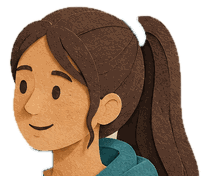
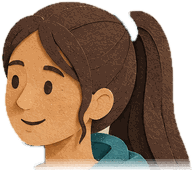
v2-pro preview: clean puppets, new buttons
Claude-Session: https://claude.ai/code/session_01YFmgE8t31npEdtV1E44xiG

diff --git a/v2-pro/index.html b/v2-pro/index.html
@@ -133,22 +133,22 @@ p { margin: 0; }
 .stepimg .pc { position: absolute; display: block; pointer-events: none; }
 .stepimg .pc .bimg { display: block; width: 100%; height: auto; }
 .stepimg .pc .arm, .stepimg .pc .head { position: absolute; display: block; height: auto; }
-.journey.live li.played .stepimg .pc.b1 { animation: body-1 4.8s steps(1, end) 1.2s infinite; }
-.journey.live li.played .stepimg .pc.b2 { animation: body-2 4.8s steps(1, end) 1.2s infinite; }
-.journey.live li.played .stepimg .pc.b3 { animation: body-3 4.8s steps(1, end) 1.2s infinite; }
-.journey.live li.played .stepimg .arm { animation: arm-1 4.8s steps(1, end) 1.2s infinite; }
+.journey.live li.played .stepimg .pc.b1 { animation: body-1 6s ease-in-out 1.2s infinite; }
+.journey.live li.played .stepimg .pc.b2 { animation: body-2 6s ease-in-out 1.2s infinite; }
+.journey.live li.played .stepimg .pc.b3 { animation: body-3 6s ease-in-out 1.2s infinite; }
+.journey.live li.played .stepimg .arm { animation: arm-1 6s ease-in-out 1.2s infinite; }
 .stepimg:not(.inview) .pc, .stepimg:not(.inview) .arm { animation-play-state: paused !important; }
-@keyframes body-1 { 0% { transform: none; } 5% { transform: rotate(-1.4deg); } 10% { transform: rotate(.5deg); } 15% { transform: rotate(-1.1deg) translateY(-.6%); } 20% { transform: rotate(.4deg); } 25% { transform: rotate(-1.6deg); } 30% { transform: rotate(.6deg) translateY(-.4%); } 35% { transform: rotate(-.9deg); } 45% { transform: none; } 70% { transform: rotate(.9deg); } 80% { transform: none; } 100% { transform: none; } }
-@keyframes arm-1 { 0% { transform: none; } 5% { transform: rotate(-9deg); } 10% { transform: rotate(3deg); } 15% { transform: rotate(-6deg); } 20% { transform: rotate(4deg); } 25% { transform: rotate(-11deg); } 30% { transform: rotate(1deg); } 35% { transform: rotate(-5deg); } 45% { transform: none; } 100% { transform: none; } }
-@keyframes body-2 { 0% { transform: none; } 20% { transform: rotate(.8deg) translateY(.5%); } 25% { transform: none; } 50% { transform: rotate(-1.2deg); } 55% { transform: rotate(1deg) translateY(-.6%); } 60% { transform: rotate(-1.4deg); } 65% { transform: rotate(.8deg); } 70% { transform: rotate(-1deg) translateY(-.4%); } 75% { transform: none; } 100% { transform: none; } }
-@keyframes body-3 { 0% { transform: none; } 35% { transform: rotate(-1deg); } 40% { transform: none; } 80% { transform: rotate(-2deg); } 85% { transform: rotate(-2.2deg) translateY(.6%); } 90% { transform: rotate(-1.4deg); } 95% { transform: rotate(-.5deg); } 100% { transform: none; } }
-.journey.live li.played .stepimg .h1 { animation: talk-1 4.8s steps(1, end) 1.2s infinite; }
-.journey.live li.played .stepimg .h2 { animation: talk-2 4.8s steps(1, end) 1.2s infinite; }
-.journey.live li.played .stepimg .h3 { animation: talk-3 4.8s steps(1, end) 1.2s infinite; }
+.journey.live li.played .stepimg .h1 { animation: talk-1 6s ease-in-out 1.2s infinite; }
+.journey.live li.played .stepimg .h2 { animation: talk-2 6s ease-in-out 1.2s infinite; }
+.journey.live li.played .stepimg .h3 { animation: talk-3 6s ease-in-out 1.2s infinite; }
+@keyframes body-1 { 0%, 100% { transform: none; } 12% { transform: rotate(-1deg); } 24% { transform: rotate(.3deg); } 36% { transform: rotate(-.8deg); } 48% { transform: none; } 75% { transform: rotate(.6deg); } }
+@keyframes arm-1 { 0%, 100% { transform: none; } 10% { transform: rotate(-8deg); } 20% { transform: rotate(2deg); } 30% { transform: rotate(-6deg); } 40% { transform: rotate(1deg); } 48% { transform: none; } }
+@keyframes body-2 { 0%, 100% { transform: none; } 20% { transform: rotate(.5deg); } 30% { transform: none; } 55% { transform: rotate(-.9deg); } 65% { transform: rotate(.6deg); } 75% { transform: rotate(-.5deg); } 85% { transform: none; } }
+@keyframes body-3 { 0%, 100% { transform: none; } 35% { transform: rotate(-.6deg); } 45% { transform: none; } 82% { transform: rotate(-1.4deg); } 92% { transform: rotate(-.6deg); } }
+@keyframes talk-1 { 0%, 100% { transform: none; } 8% { transform: rotate(-2.5deg); } 16% { transform: rotate(1deg); } 24% { transform: rotate(-2deg); } 32% { transform: rotate(.5deg); } 40% { transform: rotate(-1.5deg); } 48% { transform: none; } 70% { transform: rotate(2deg); } 80% { transform: none; } }
+@keyframes talk-2 { 0%, 100% { transform: none; } 18% { transform: rotate(2deg) translateY(1%); } 28% { transform: none; } 52% { transform: rotate(-2deg); } 60% { transform: rotate(1.5deg); } 68% { transform: rotate(-1.5deg); } 76% { transform: rotate(1deg); } 86% { transform: none; } }
+@keyframes talk-3 { 0%, 100% { transform: none; } 30% { transform: rotate(-1.5deg); } 42% { transform: none; } 80% { transform: rotate(-3deg); } 86% { transform: rotate(-2.5deg) translateY(1%); } 94% { transform: rotate(-.8deg); } }
 .stepimg:not(.inview) .head { animation-play-state: paused !important; }
-@keyframes talk-1 { 0% { transform: none; } 5% { transform: rotate(-3deg) translateY(-1%); } 10% { transform: rotate(1.5deg); } 15% { transform: rotate(-2deg) translateY(-1%); } 20% { transform: rotate(.5deg); } 25% { transform: rotate(-2.5deg); } 30% { transform: rotate(1deg) translateY(-.5%); } 35% { transform: rotate(-1.5deg); } 40% { transform: rotate(.5deg); } 45% { transform: none; } 70% { transform: rotate(1.5deg); } 80% { transform: none; } 100% { transform: none; } }
-@keyframes talk-2 { 0% { transform: none; } 20% { transform: rotate(1.5deg) translateY(1.5%); } 25% { transform: none; } 50% { transform: rotate(2.5deg); } 55% { transform: rotate(-1.5deg) translateY(-1%); } 60% { transform: rotate(2deg); } 65% { transform: rotate(-1deg); } 70% { transform: rotate(1.5deg) translateY(-1%); } 75% { transform: none; } 100% { transform: none; } }
-@keyframes talk-3 { 0% { transform: none; } 35% { transform: rotate(-2deg); } 40% { transform: none; } 80% { transform: rotate(-4deg); } 85% { transform: rotate(-4deg) translateY(1.5%); } 90% { transform: rotate(-3deg); } 95% { transform: rotate(-1deg); } 100% { transform: none; } }
 @media (min-width: 700px) { .stepimg { grid-column: 3; max-width: 420px; } }
 .journey.live li:not(.played) .stepimg .scene { opacity: .35; transform: scale(.94) rotate(-1.5deg); }
 .journey.live li.played .stepimg .scene { animation: sm-pop .6s steps(1, end) both, sm-boil .5s steps(1, end) .6s 5; }
@@ -226,15 +226,32 @@ body::before { content: ""; position: fixed; inset: 0 0 auto; height: env(safe-a
 @media (min-width: 900px) { .nav { display: flex; } .lang { margin-left: 0; } .top .cta-s { display: inline-flex; } }
 
 /* buttons */
-.btn { display: inline-flex; align-items: center; justify-content: center; gap: 10px; padding: 14px 22px; background: var(--ink); color: #fff; text-decoration: none; font: 500 var(--fs-sm)/1 var(--sans); letter-spacing: .02em; border: 0; border-radius: 2px; cursor: pointer; transition: background .2s; }
-.btn:hover { background: var(--accent); }
-.btn .arr { transition: transform .25s ease; }
-.btn:hover .arr { transform: translateX(3px); }
+/* buttons: one solid primary, one outlined secondary; same height, soft corners, an arrow chip that nudges on hover */
+.btn { display: inline-flex; align-items: center; justify-content: space-between; gap: 16px; min-height: 52px; padding: 6px 6px 6px 22px;
+  background: var(--ink); color: #fff; text-decoration: none; font: 600 .98rem/1.2 var(--sans); letter-spacing: -.005em;
+  border: 0; border-radius: 10px; cursor: pointer; -webkit-tap-highlight-color: transparent;
+  box-shadow: 0 1px 2px rgba(12,47,58,.18), 0 10px 24px -14px rgba(12,47,58,.65);
+  transition: background .25s ease, box-shadow .25s ease, transform .2s ease; }
+.btn:hover { background: #12414e; box-shadow: 0 2px 4px rgba(12,47,58,.2), 0 14px 28px -14px rgba(12,47,58,.7); }
+.btn:active { transform: translateY(1px); box-shadow: 0 1px 2px rgba(12,47,58,.2); }
+.btn .ico { display: grid; place-items: center; flex: none; width: 40px; height: 40px; border-radius: 8px; background: var(--accent); transition: transform .25s ease, background .25s ease; }
+.btn:hover .ico { transform: translateX(2px); background: #13909e; }
+.btn .arr { width: 15px; height: 11px; }
+.btn.plain { padding: 6px 22px; justify-content: center; }
+.btn.small { min-height: 40px; padding: 4px 16px; font-size: var(--fs-xs); border-radius: 8px; box-shadow: none; }
 .route > button, .faq summary, .seg span, .lang button { cursor: pointer; }
-.btn .arr { width: 14px; height: 10px; }
-.btn.small { padding: 10px 16px; font-size: var(--fs-xs); }
+.btn-line { display: inline-flex; align-items: center; justify-content: center; gap: 10px; min-height: 52px; padding: 6px 22px; border-radius: 10px;
+  border: 1px solid rgba(12,47,58,.28); color: var(--ink); background: transparent; text-decoration: none; font: 600 .98rem/1.2 var(--sans); cursor: pointer;
+  transition: border-color .25s ease, background .25s ease; }
+.btn-line:hover { border-color: var(--ink); background: rgba(12,47,58,.04); }
+.btn-line .chev { width: 10px; height: 10px; transition: transform .25s ease; }
+.btn-line:hover .chev { transform: translateY(2px); }
 .tlink { font-size: var(--fs-sm); color: var(--ink); text-decoration: underline; text-decoration-color: var(--rule); text-underline-offset: 5px; text-decoration-thickness: 1px; }
 .tlink:hover { text-decoration-color: var(--accent); }
+@media (max-width: 560px) {
+  .hero .actions { display: grid; grid-template-columns: 1fr; gap: 10px; }
+  .hero .actions .btn, .hero .actions .btn-line, #form .btn { width: 100%; }
+}
 
 /* hero */
 .hero { padding-block: clamp(48px, 8vw, 96px) 0; }
@@ -335,7 +352,9 @@ section.tint .scope div { background: var(--tint); }
 .contact .wx small { font-size: var(--fs-xs); color: var(--muted); }
 .contact .wx .row { display: flex; align-items: center; gap: 14px; flex-wrap: wrap; }
 .contact .wx .id { font-family: var(--serif); font-weight: 500; font-size: 1.8rem; color: var(--ink); user-select: all; -webkit-user-select: all; }
-.ghost { all: unset; cursor: pointer; font-size: var(--fs-xs); padding: 6px 12px; border: 1px solid var(--rule); border-radius: 2px; color: var(--ink); background: var(--paper); }
+.ghost { all: unset; box-sizing: border-box; cursor: pointer; display: inline-flex; align-items: center; gap: 6px; min-height: 34px; font: 600 var(--fs-xs)/1 var(--sans); padding: 0 12px; border: 1px solid rgba(12,47,58,.22); border-radius: 8px; color: var(--ink); background: var(--paper); transition: border-color .2s ease, background .2s ease; }
+.ghost:hover { border-color: var(--ink); }
+.ghost svg { width: 14px; height: 14px; }
 .ghost:focus-visible { outline: 2px solid var(--accent); outline-offset: 2px; }
 form.card, .done { background: var(--paper); border: 1px solid var(--rule); padding: clamp(20px, 4vw, 36px); display: grid; gap: 18px; }
 .field { display: grid; gap: 6px; min-width: 0; }
@@ -413,8 +432,8 @@ footer .base { margin-top: 40px; padding-top: 18px; border-top: 1px solid rgba(2
           <h1><span class="en">Thinking about studying in the UK? Let’s talk it through<i class="sundot" aria-hidden="true"></i><span class="sr">.</span></span><span class="zh">想去英国读书？<br>我们先聊一聊<i class="sundot" aria-hidden="true"></i><span class="sr">。</span></span></h1>
           <p class="lede"><span class="en">We help parents, students and working adults find UK schools and courses that suit them, and introduce them to the right people. The first conversation is free.</span><span class="zh">我们帮助家长、学生和在职人士找到适合的英国学校与课程，并为你对接合适的学校。第一次咨询免费。</span></p>
           <div class="actions">
-            <a class="btn" href="#consult"><span class="en">Book a free consultation</span><span class="zh">预约免费咨询</span><svg class="arr" viewBox="0 0 14 10" aria-hidden="true"><path d="M0 5h12M8 1l4 4-4 4" fill="none" stroke="currentColor" stroke-width="1.4"/></svg></a>
-            <a class="tlink" href="#how"><span class="en">How we work</span><span class="zh">了解服务方式</span></a>
+            <a class="btn" href="#consult"><span class="en">Book a free consultation</span><span class="zh">预约免费咨询</span><span class="ico" aria-hidden="true"><svg class="arr" viewBox="0 0 14 10" aria-hidden="true"><path d="M0 5h12M8 1l4 4-4 4" fill="none" stroke="currentColor" stroke-width="1.8" stroke-linecap="round" stroke-linejoin="round"/></svg></span></a>
+            <a class="btn-line" href="#how"><span class="en">How we work</span><span class="zh">了解服务方式</span><svg class="chev" viewBox="0 0 10 10" aria-hidden="true"><path d="M2 3.5l3 3 3-3" fill="none" stroke="currentColor" stroke-width="1.6" stroke-linecap="round" stroke-linejoin="round"/></svg></a>
           </div>
         </div>
         <figure class="pframe">
@@ -439,7 +458,7 @@ footer .base { margin-top: 40px; padding-top: 18px; border-top: 1px solid rgba(2
       <div>
         <div class="journey" id="journey"><span class="track" aria-hidden="true"><span class="fill"></span><span class="dot"></span></span>
         <ol class="process">
-          <li><span class="n">1</span><h3><span class="en">A free conversation</span><span class="zh">免费沟通</span></h3><p><span class="en">Tell us about age, grades, English level, budget and goals, by WeChat call or in person.</span><span class="zh">通过微信语音或面谈，聊聊年龄、成绩、英语水平、预算和目标。</span><span class="who"><span class="en">With Oriwis</span><span class="zh">Oriwis 陪同</span></span></p><div class="stepimg"><div class="scene"><img class="base" src="images/v2/step1.jpg" alt="Paper-cut illustration: a consultant talking with a mother and her daughter at a table" width="960" height="640" loading="lazy"><div class="sea" style="left:31.667%;top:20.938%;width:41.875%;height:21.250%"><img src="images/v2/step1.jpg" alt="" style="width:238.806%;left:-75.622%;top:-98.529%"></div><svg class="gull" viewBox="0 0 40 20" aria-hidden="true"><path class="w1" d="M2 12 Q10 2 20 11 Q30 2 38 12 Q30 7 20 14 Q10 7 2 12Z"/><path class="w2" d="M3 6 Q11 13 20 11 Q29 13 37 6 Q29 15 20 15 Q11 15 3 6Z"/></svg><div class="pc b1" style="left:0.000%;top:14.062%;width:38.438%;transform-origin:35.8% 98.7%"><img class="bimg" src="images/v2/step1-b1.png" alt="" loading="lazy"><img class="arm" src="images/v2/step1-arm.png" alt="" loading="lazy" style="left:64.499%;top:58.824%;width:35.501%;transform-origin:18.3% 84.4%"><img class="head h1" src="images/v2/step1-h1.png" alt="" loading="lazy" style="left:7.588%;top:-0.512%;width:57.453%;transform-origin:64.6% 96.2%"></div><div class="pc b2" style="left:40.417%;top:16.250%;width:26.562%;transform-origin:49.8% 99.2%"><img class="bimg" src="images/v2/step1-b2.png" alt="" loading="lazy"><img class="head h2" src="images/v2/step1-h2.png" alt="" loading="lazy" style="left:14.118%;top:0.000%;width:77.647%;transform-origin:49.5% 98.0%"></div><div class="pc b3" style="left:72.500%;top:23.750%;width:26.771%;transform-origin:47.5% 99.1%"><img class="bimg" src="images/v2/step1-b3.png" alt="" loading="lazy"><img class="head h3" src="images/v2/step1-h3.png" alt="" loading="lazy" style="left:20.233%;top:-0.623%;width:79.377%;transform-origin:31.4% 98.9%"></div></div></div></li>
+          <li><span class="n">1</span><h3><span class="en">A free conversation</span><span class="zh">免费沟通</span></h3><p><span class="en">Tell us about age, grades, English level, budget and goals, by WeChat call or in person.</span><span class="zh">通过微信语音或面谈，聊聊年龄、成绩、英语水平、预算和目标。</span><span class="who"><span class="en">With Oriwis</span><span class="zh">Oriwis 陪同</span></span></p><div class="stepimg"><div class="scene"><img class="base" src="images/v2/step1.jpg" alt="Paper-cut illustration: a consultant talking with a mother and her daughter at a table" width="960" height="640" loading="lazy"><div class="sea" style="left:31.667%;top:20.938%;width:41.875%;height:21.250%"><img src="images/v2/step1.jpg" alt="" style="width:238.806%;left:-75.622%;top:-98.529%"></div><svg class="gull" viewBox="0 0 40 20" aria-hidden="true"><path class="w1" d="M2 12 Q10 2 20 11 Q30 2 38 12 Q30 7 20 14 Q10 7 2 12Z"/><path class="w2" d="M3 6 Q11 13 20 11 Q29 13 37 6 Q29 15 20 15 Q11 15 3 6Z"/></svg><div class="pc b1" style="left:0.000%;top:40.781%;width:32.917%;transform-origin:41.8% 98.6%"><img class="bimg" src="images/v2/step1-b1.png" alt="" loading="lazy"><img class="arm" src="images/v2/step1-arm.png" alt="" loading="lazy" style="left:75.633%;top:27.982%;width:40.506%;transform-origin:18.0% 85.7%"><img class="head h1" src="images/v2/step1-h1.png" alt="" loading="lazy" style="left:11.076%;top:-75.229%;width:62.342%;transform-origin:66.0% 96.5%"></div><div class="pc b2" style="left:40.521%;top:45.000%;width:26.250%;transform-origin:50.0% 99.4%"><img class="bimg" src="images/v2/step1-b2.png" alt="" loading="lazy"><img class="head h2" src="images/v2/step1-h2.png" alt="" loading="lazy" style="left:13.889%;top:-107.602%;width:78.571%;transform-origin:49.5% 98.5%"></div><div class="pc b3" style="left:72.604%;top:44.844%;width:26.458%;transform-origin:47.6% 99.5%"><img class="bimg" src="images/v2/step1-b3.png" alt="" loading="lazy"><img class="head h3" src="images/v2/step1-h3.png" alt="" loading="lazy" style="left:23.228%;top:-71.739%;width:75.591%;transform-origin:29.2% 99.4%"></div></div></div></li>
           <li><span class="n">2</span><h3><span class="en">Your shortlist</span><span class="zh">匹配清单</span></h3><p><span class="en">A short list of suitable UK schools or courses, with entry requirements and timing explained.</span><span class="zh">一份适合你的英国学校或课程清单，讲清入学要求和时间安排。</span><span class="who"><span class="en">With Oriwis</span><span class="zh">Oriwis 陪同</span></span></p><div class="stepimg"><div class="scene"><img class="base" src="images/v2/step2.jpg" alt="Paper-cut illustration: a magnifying glass moves over a map of the UK and finds schools in Scotland, the Midlands and London" width="960" height="640" loading="lazy"><img class="card cardA" src="images/v2/step2-cardA.png" alt="" loading="lazy" style="left:62.500%;top:6.562%;width:26.042%"><img class="card cardC" src="images/v2/step2-cardC.png" alt="" loading="lazy" style="left:12.500%;top:39.062%;width:22.396%"><img class="card cardB" src="images/v2/step2-cardB.png" alt="" loading="lazy" style="left:70.000%;top:51.562%;width:26.042%"><svg class="mag" viewBox="0 0 120 120" aria-hidden="true"><rect x="74" y="70" width="16" height="52" rx="7" transform="rotate(-45 82 96)" fill="#1e4a63"/><rect x="77" y="73" width="6" height="40" rx="3" transform="rotate(-45 80 93)" fill="#2f6582"/><circle cx="48" cy="48" r="38" fill="rgba(255,255,255,.22)" stroke="#1e4a63" stroke-width="10"/><circle cx="48" cy="48" r="31" fill="none" stroke="#8fc6c9" stroke-width="3"/><path d="M30 30 Q38 22 50 22" fill="none" stroke="#fff" stroke-width="5" stroke-linecap="round" opacity=".75"/></svg></div></div></li>
           <li class="you"><span class="n">3</span><h3><span class="en">Introduction to the school</span><span class="zh">对接学校</span></h3><p><span class="en">We introduce you to the school or its official partner. You apply and pay them directly.</span><span class="zh">我们为你介绍学校或其官方合作方，申请与缴费由你直接完成。</span><span class="who"><span class="en">You and the school</span><span class="zh">你与学校</span></span></p><div class="stepimg"><div class="scene"><img class="base" src="images/v2/step3.jpg" alt="Paper-cut illustration: a student and her mother welcomed at a British school gate" width="960" height="640" loading="lazy"><div class="bang" style="left:52.083%;top:61.250%"><i class="rays"></i><i class="cf c" style="--dx:-5.96;--dy:13.77;--r:-136deg;background:#f0a93b"></i><i class="cf r" style="--dx:-10.68;--dy:15.70;--r:27deg;background:#0f7f8c"></i><i class="cf r" style="--dx:-17.86;--dy:9.06;--r:-51deg;background:#ef6f5e"></i><i class="cf c" style="--dx:-13.63;--dy:4.02;--r:-125deg;background:#ffffff"></i><i class="cf r" style="--dx:-14.92;--dy:-3.67;--r:-130deg;background:#8fd0c9"></i><i class="cf r" style="--dx:-8.59;--dy:-9.48;--r:-46deg;background:#f0a93b"></i><i class="cf c" style="--dx:-9.95;--dy:-17.72;--r:-129deg;background:#0c2f3a"></i><i class="cf r" style="--dx:-5.51;--dy:-18.50;--r:-47deg;background:#f0a93b"></i><i class="cf r" style="--dx:-5.13;--dy:-26.38;--r:-12deg;background:#0f7f8c"></i><i class="cf c" style="--dx:1.85;--dy:-22.34;--r:132deg;background:#ef6f5e"></i><i class="cf r" style="--dx:6.73;--dy:-24.84;--r:-68deg;background:#ffffff"></i><i class="cf r" style="--dx:8.91;--dy:-18.71;--r:-64deg;background:#8fd0c9"></i><i class="cf c" style="--dx:12.66;--dy:-12.29;--r:-128deg;background:#f0a93b"></i><i class="cf r" style="--dx:15.44;--dy:-5.20;--r:94deg;background:#0c2f3a"></i><i class="cf r" style="--dx:13.75;--dy:2.27;--r:0deg;background:#f0a93b"></i><i class="cf c" style="--dx:17.90;--dy:9.52;--r:25deg;background:#0f7f8c"></i><i class="cf r" style="--dx:14.70;--dy:14.66;--r:-36deg;background:#ef6f5e"></i><i class="cf r" style="--dx:8.56;--dy:13.67;--r:93deg;background:#ffffff"></i></div></div></div></li>
         </ol></div>
@@ -484,7 +503,7 @@ footer .base { margin-top: 40px; padding-top: 18px; border-top: 1px solid rgba(2
         <p><span class="en">Add us on WeChat, or fill in the form and send us the message it creates.</span><span class="zh">直接添加微信，或填写表格并把生成的信息发给我们。</span></p>
         <div class="wx">
           <small><span class="en">WeChat ID</span><span class="zh">微信号</span></small>
-          <div class="row"><span class="id" id="wxid">OriwisUK</span><button class="ghost" type="button" data-copy="wxid"><span class="en">Copy</span><span class="zh">复制</span></button></div>
+          <div class="row"><span class="id" id="wxid">OriwisUK</span><button class="ghost" type="button" data-copy="wxid"><svg viewBox="0 0 16 16" aria-hidden="true"><rect x="5" y="5" width="8.5" height="8.5" rx="2" fill="none" stroke="currentColor" stroke-width="1.4"/><path d="M3.5 10.5h-.5a1.5 1.5 0 0 1-1.5-1.5V3A1.5 1.5 0 0 1 3 1.5h6A1.5 1.5 0 0 1 10.5 3v.5" fill="none" stroke="currentColor" stroke-width="1.4"/></svg><span class="en">Copy</span><span class="zh">复制</span></button></div>
         </div>
       </div>
       <div>
@@ -507,7 +526,7 @@ footer .base { margin-top: 40px; padding-top: 18px; border-top: 1px solid rgba(2
           </div>
           <label class="agree"><input type="checkbox" id="f-agree"><span><span class="en">I agree Oriwis may use these details only to reply to me.</span><span class="zh">我同意 Oriwis 仅为回复我而使用以上信息。</span></span></label>
           <p class="err" id="err" hidden></p>
-          <div><button class="btn" type="submit"><span class="en">Create my message</span><span class="zh">生成咨询信息</span><svg class="arr" viewBox="0 0 14 10" aria-hidden="true"><path d="M0 5h12M8 1l4 4-4 4" fill="none" stroke="currentColor" stroke-width="1.4"/></svg></button></div>
+          <div><button class="btn" type="submit"><span class="en">Create my message</span><span class="zh">生成咨询信息</span><span class="ico" aria-hidden="true"><svg class="arr" viewBox="0 0 14 10" aria-hidden="true"><path d="M0 5h12M8 1l4 4-4 4" fill="none" stroke="currentColor" stroke-width="1.8" stroke-linecap="round" stroke-linejoin="round"/></svg></span></button></div>
         </form>
         <div class="done" id="done" hidden>
           <h3><span class="en">Your message is ready</span><span class="zh">咨询信息已生成</span><i class="sundot" aria-hidden="true"></i></h3>
@@ -517,7 +536,7 @@ footer .base { margin-top: 40px; padding-top: 18px; border-top: 1px solid rgba(2
             <li><span class="en">Paste and send. We’ll reply soon.</span><span class="zh">粘贴发送，我们会尽快回复。</span></li>
           </ol>
           <pre id="msg"></pre>
-          <div style="display:flex;gap:18px;align-items:center;flex-wrap:wrap"><button class="btn" type="button" data-copy="msg"><span class="en">Copy message</span><span class="zh">复制信息</span></button><button class="tlink" type="button" id="edit" style="background:none;border:0;cursor:pointer;font:inherit;font-size:var(--fs-sm)"><span class="en">Edit</span><span class="zh">修改</span></button></div>
+          <div style="display:flex;gap:18px;align-items:center;flex-wrap:wrap"><button class="btn plain" type="button" data-copy="msg"><span class="en">Copy message</span><span class="zh">复制信息</span></button><button class="tlink" type="button" id="edit" style="background:none;border:0;cursor:pointer;font:inherit;font-size:var(--fs-sm)"><span class="en">Edit</span><span class="zh">修改</span></button></div>
         </div>
       </div>
     </div>
@@ -537,7 +556,7 @@ footer .base { margin-top: 40px; padding-top: 18px; border-top: 1px solid rgba(2
         <p class="legal"><span class="en">Oriwis provides study-abroad information matching, preliminary consultations and referrals only. We are not a study-abroad agency. We do not handle admissions, collect fees from students, or sign admission guarantee agreements. Students register, pay and complete all procedures directly with the school or its overseas partner.</span><span class="zh">Oriwis 仅提供留学信息匹配、初步咨询与转介服务，不是留学中介机构。我们不代办入学申请，不向学生收取费用，不签署任何录取担保协议。学生最终直接向学校或海外合作方注册、缴费并办理相关手续。</span></p>
       </div>
     </div>
-    <div class="base"><span>© <span id="yr">2026</span> Oriwis · Preview 23 Nov 01:36</span><span><span class="en">Photos are AI-generated illustrations, not real students or schools.</span><span class="zh">网站图片为 AI 生成的示意图，并非真实学生或学校。</span></span></div>
+    <div class="base"><span>© <span id="yr">2026</span> Oriwis · Preview 23 Nov 01:42</span><span><span class="en">Photos are AI-generated illustrations, not real students or schools.</span><span class="zh">网站图片为 AI 生成的示意图，并非真实学生或学校。</span></span></div>
   </div>
 </footer>
 
